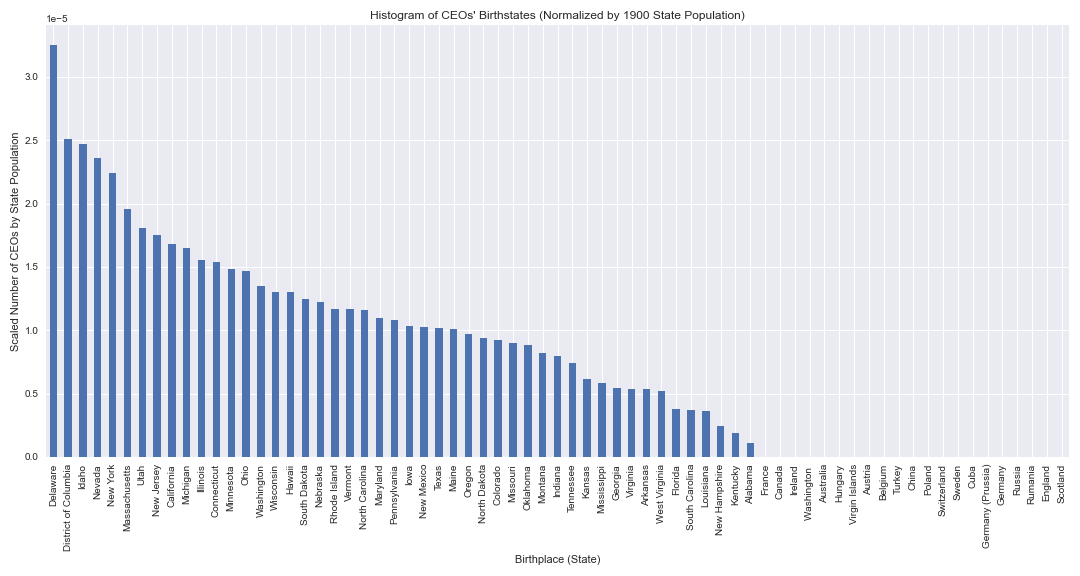
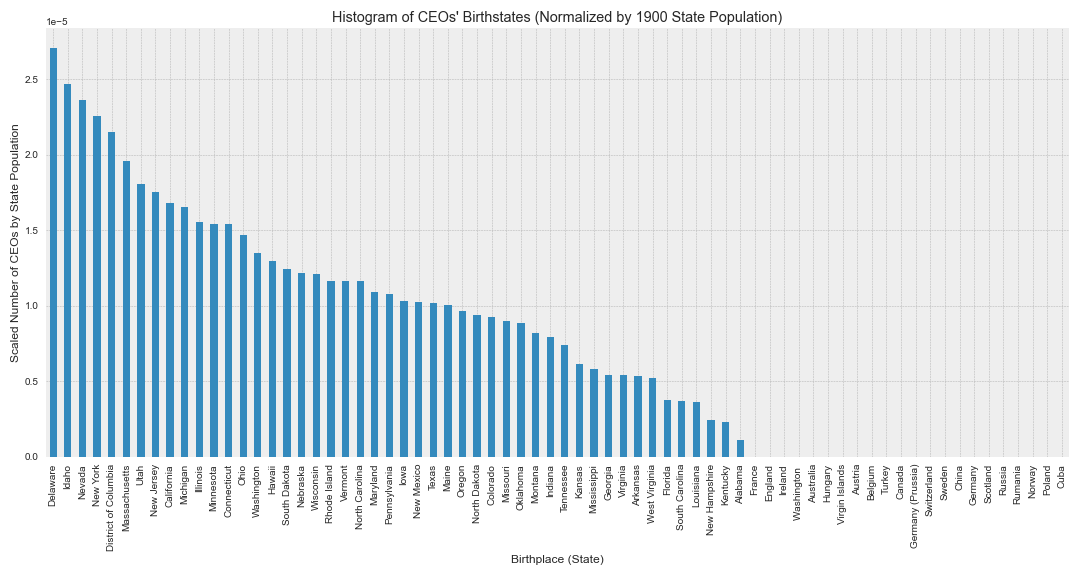
finished counties, merging in fips

diff --git a/code/clean_ceo.py b/code/clean_ceo.py
@@ -30,8 +30,10 @@ os.chdir(base_directory)
 
 ######## Load data ############################################################
 
+# CAN I FIGURE OUT A WAY HERE TO DOWNLOAD DIRECTLY FROM THE GDRIVE TO SAVE THIS STEP?
+
 # Load the Excel file
-file_path = 'data/entrepreneurs.xlsx'
+file_path = 'data/entrepreneurs_master.xlsx'
 all_sheets = pd.read_excel(file_path, sheet_name=None)
 
 # Access a specific sheet from the dictionary
@@ -46,7 +48,7 @@ state_pop_1950 = all_sheets['state_pop_1950']
 ##################################### Histogram of birthplaces 
 
 # Checking unique values and their frequencies in the 'Birthplace' column
-birthplace_counts = ceo_df['Birthplace'].value_counts()
+birthplace_counts = ceo_df['Birthstate'].value_counts()
 
 # Creating the histogram for the birthplaces
 plt.figure(figsize=(15, 8))
@@ -75,13 +77,13 @@ del state_pop_1950
 state_pop.set_index('state', inplace=True)
 
 # First, map the population data to the birthplaces
-ceo_df['State Population 1900'] = ceo_df['Birthplace'].map(state_pop['1900_census_pop'])
+ceo_df['State Population 1900'] = ceo_df['Birthstate'].map(state_pop['1900_census_pop'])
 
 # Calculate number of leaders divided by state population
 ceo_df['Scaled Leaders'] = 1 / ceo_df['State Population 1900']
 
 # Summing the scaled values for each state to get the final values for the histogram
-scaled_birthplace_counts = ceo_df.groupby('Birthplace')['Scaled Leaders'].sum()
+scaled_birthplace_counts = ceo_df.groupby('Birthstate')['Scaled Leaders'].sum()
 
 # Sort the values for better visualization
 scaled_birthplace_counts = scaled_birthplace_counts.sort_values(ascending=False)

diff --git a/code/scrape_founders.py b/code/scrape_founders.py
@@ -72,7 +72,6 @@ driver = webdriver.Chrome(options=options)
 
 
 print("Starting scraping process...")
-# Replace 'your_file.csv' with the path to your CSV file
 read_and_scrape('/Users/anyamarchenko/Desktop/entrepreneur_test.csv', driver)
 
 print("Scraping process completed.")
